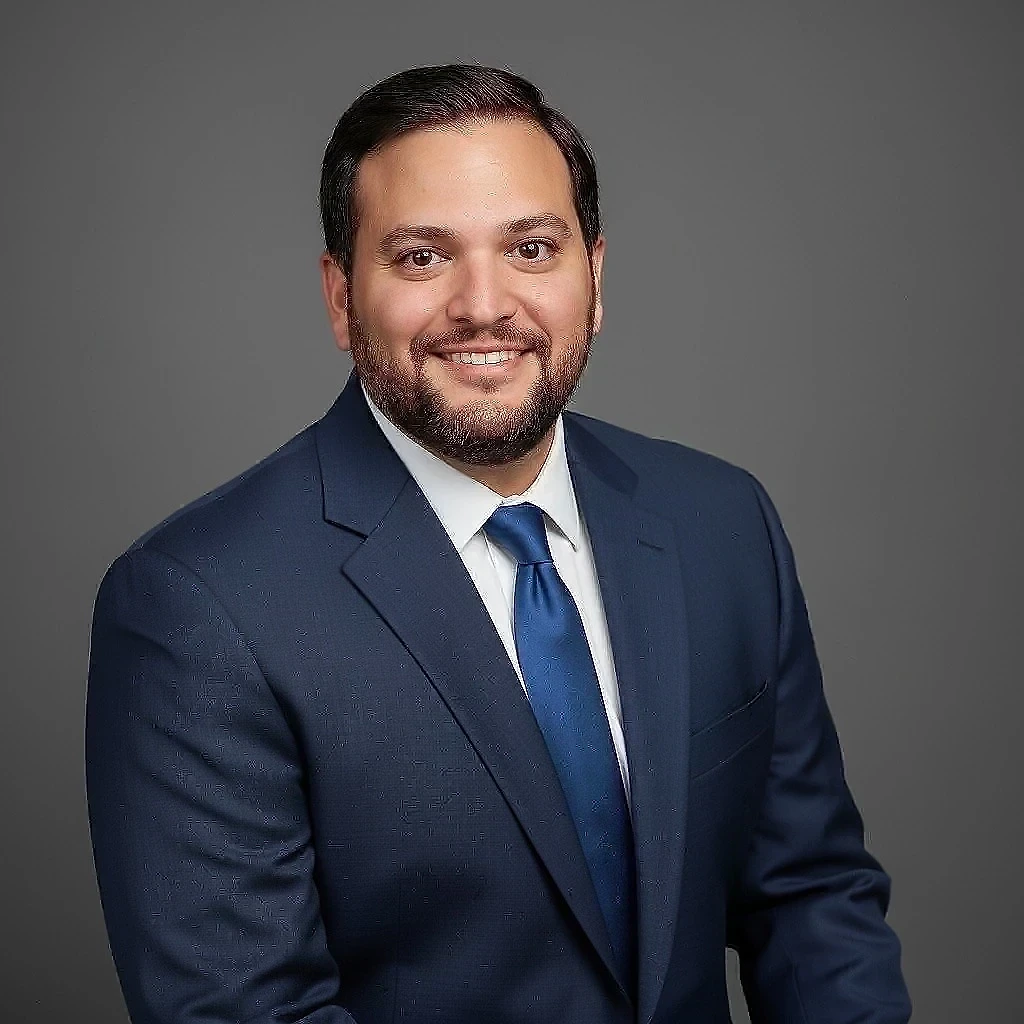
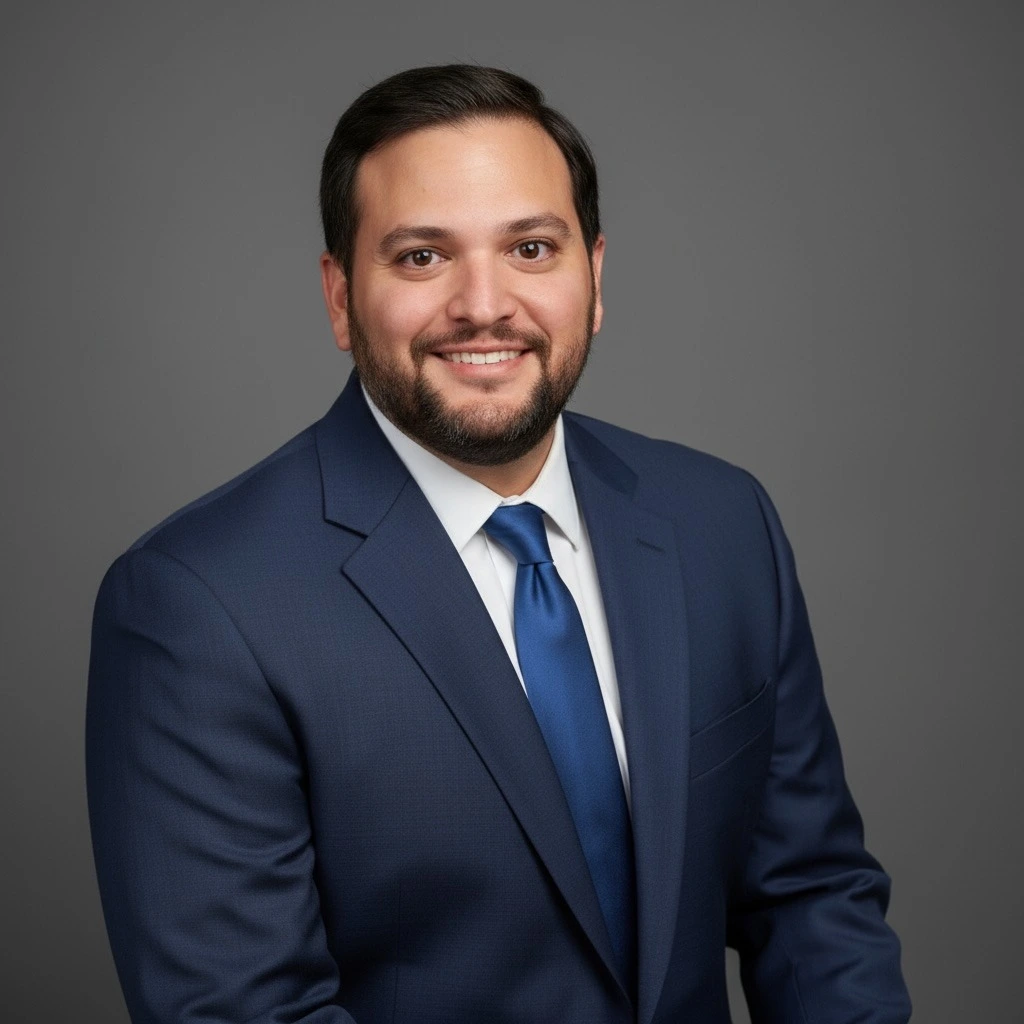
fix: remove sharpen from photo pipeline and reprocess PI headshots
The .sharpen() step was creating unnatural edge halos and an
AI-processed look on team photos. Kevin Buell's photo also had dark
background artifacts from aggressive trim + upscale. Reprocessed both
PI photos from original JPGs without sharpening.

diff --git a/src/lib/staff/photo-pipeline.ts b/src/lib/staff/photo-pipeline.ts
@@ -19,8 +19,7 @@ export async function pipelineTeamPhoto(input: Buffer): Promise<Buffer> {
       .rotate()
       .trim({ threshold: TEAM_PHOTO_TRIM_THRESHOLD })
       .resize(TEAM_PHOTO_SIZE, TEAM_PHOTO_SIZE, { fit: "cover", position: "attention" })
-      .sharpen({ sigma: 0.65, m1: 0.35, m2: 0.35 })
-      .webp({ quality: 91, effort: 4 });
+      .webp({ quality: 92, effort: 4 });
 
   try {
     return await chain().toBuffer();
@@ -28,8 +27,7 @@ export async function pipelineTeamPhoto(input: Buffer): Promise<Buffer> {
     return sharp(input)
       .rotate()
       .resize(TEAM_PHOTO_SIZE, TEAM_PHOTO_SIZE, { fit: "cover", position: "attention" })
-      .sharpen({ sigma: 0.65, m1: 0.35, m2: 0.35 })
-      .webp({ quality: 91, effort: 4 })
+      .webp({ quality: 92, effort: 4 })
       .toBuffer();
   }
 }